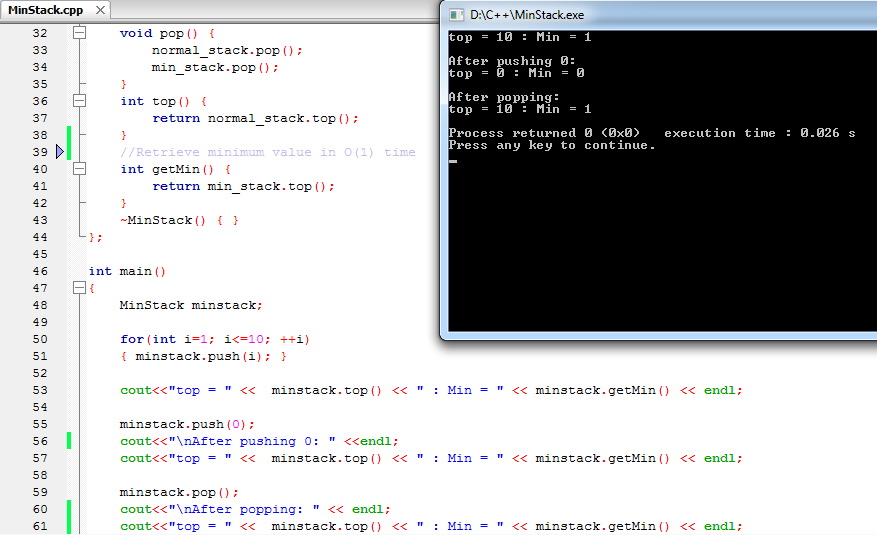
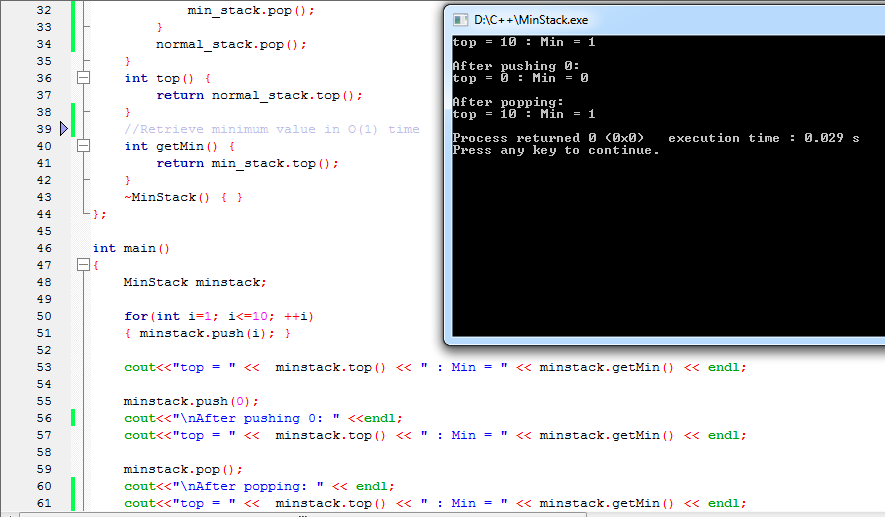
Design a stack to get minimum value in O(1) time

diff --git a/MinStack.cpp b/MinStack.cpp
@@ -15,23 +15,23 @@ public:
 
     MinStack() { }
 
-    void push(int n)
+    void push(int newVal)
 	{
-        normal_stack.push(n);
-
-        if(min_stack.empty())
+        normal_stack.push(newVal);
+        //min_stack is pushed only if new_val is less than or equal to min_stack.top()
+        if(min_stack.empty() || newVal <= min_stack.top() )
 		{
-        	min_stack.push(n);
+        	min_stack.push(newVal);
 		}
-        else //Store, every time normal_stack is pushed with new value n, min_stack is pushed with min of n and min_stack's top
-        {
-        	min_stack.push(min(min_stack.top(), n));
-		}
-
     }
     void pop() {
+
+        //min stack is popped ONLY if the top values (BEFORE popping) of the min stack and normal stack are equal.
+        if(normal_stack.top() == min_stack.top())
+        {
+            min_stack.pop();
+        }
         normal_stack.pop();
-        min_stack.pop();
     }
     int top() {
         return normal_stack.top();
